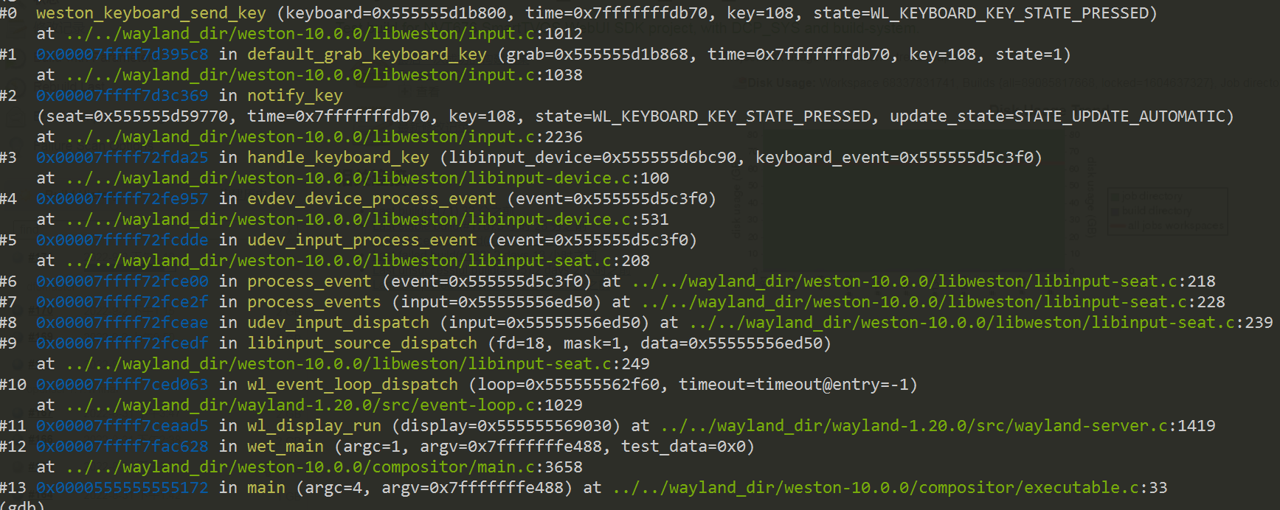
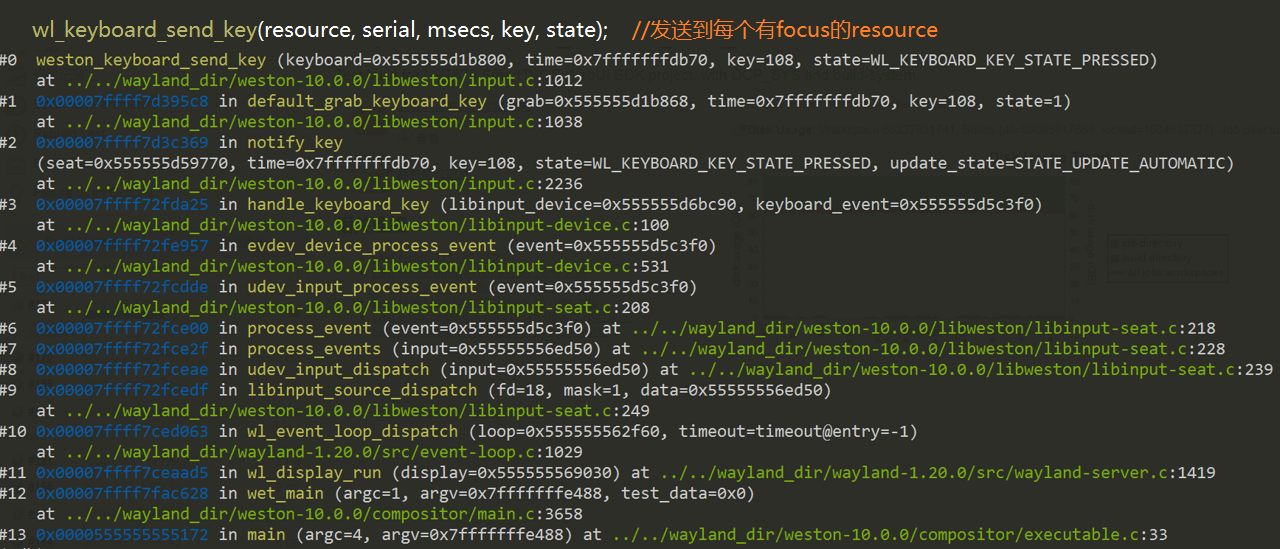
update opengl

Changed region(s): [[0.0, 0.0, 1.0, 1.0]]

diff --git a/jekyll/2018-05-15-Wayland&Weston.html b/jekyll/2018-05-15-Wayland&Weston.html
@@ -384,6 +384,8 @@
       <li>./weston –tty=2</li>
       <li>Ctrl+Alt+Backspace –&gt; 退出Weston界面</li>
     </ol>
+
+    <p>如一般用户启动weston，这时要借助weston-launch 来完成。 相关code：libweston/weston-launch.c</p>
   </li>
   <li>run weston-client test
     <ol>
@@ -820,6 +822,8 @@ weston-10.0.0./compositor/executable.c
 
 <p><img src="/blog/assets/wayland/layer_view_surface.png" alt="layer_view_surface" /></p>
 
+<p><img src="/blog/assets/wayland/view_list.png" alt="view_list" /></p>
+
 <h2 id="47-create_surface">4.7 create_surface</h2>
 
 <p><img src="/blog/assets/wayland/client_server_create_object.png" alt="client_server_create_object" /></p>
@@ -867,7 +871,9 @@ weston-10.0.0./compositor/executable.c
 
 <h2 id="416-libinput">4.16 libinput</h2>
 
-<p><img src="/blog/assets/wayland/Libinput_for_Wayland_compositors.svg" alt="libinput" /></p>
+<p><img src="/blog/assets/wayland/Libinput_for_Wayland_compositors.svg" alt="libinput" width="400px" height="480px" /></p>
+
+<p>source code：<a href="https://gitlab.freedesktop.org/libinput/libinput">https://gitlab.freedesktop.org/libinput/libinput</a></p>
 
 <p>为了提高输入管理部分的模块性，Weston将对输入设备(键盘，鼠标，触摸屏等)的处理分离到一个单独的库，也就是libinput 中。具体地，它提供了<strong>设备检测</strong>，<strong>设备处理</strong>，<strong>输入事件处理</strong>等基本功能，类似于Android 中的EventHub。此外它还有<strong>pointer acceleration</strong>, <strong>touchpad support</strong> 及<strong>gesture recognition</strong>等功能。</p>
 
@@ -894,7 +900,13 @@ weston-10.0.0./compositor/executable.c
 
 <p>可以看到，对于焦点处理，每个设备有自己的focus,它指向焦点窗口，用于拖拽和输入等。成员focus_resource_list 中包含了焦点窗口所在client中输入设备 proxy对应的 resource 对象。在这个 list 中意味着可以接收到相应的事件。</p>
 
+<p><img src="/blog/assets/wayland/libinput.png" alt="libinput" /></p>
+
 <p><img src="/blog/assets/wayland/wayland_input.svg" alt="wayland_input" /></p>
+
+<p>对于焦点处理，每个设备有自己的 focus，它指向焦点窗口，用于拖拽和输入等。成员focus_resource_list 中包含了焦点窗口所在 client 中输入设备 proxy 对应的 resource 对象。在这个list中的resource就可以接收到相应的事件。 相关函数<span style="background-color: yellow">weston_keyboard_send_key()</span>, 参考 4.18.10 key的处理</p>
+
+<p><img src="/blog/assets/wayland/libinput_seat.png" alt="libinput_seat" /></p>
 
 <p><img src="/blog/assets/wayland/input.png" alt="input" width="170px" height="70px" /></p>
 
@@ -934,6 +946,8 @@ weston-10.0.0./compositor/executable.c
 <p>总之，udev 是一个关键的 Linux 设备管理工具，负责设备事件的处理、设备识别、权限管理和符号链接的创建</p>
 
 <h3 id="4162-grab-key">4.16.2 grab key</h3>
+
+<p>特殊情况下，shell对key的grab</p>
 
 <p><img src="/blog/assets/wayland/grab_key.svg" alt="grab_key" /></p>
 
@@ -1013,6 +1027,13 @@ weston-10.0.0./compositor/executable.c
 <ul>
   <li>wl_signal_add( , ) 添加一个listener到 listerner_list 链表</li>
   <li>wl_signal_emit( , ) 触发一个signal, 从listener_list中调用每个listener notify</li>
+  <li>listerner_list 其实就是一个callback链表
+    <div class="language-c highlighter-rouge"><div class="highlight"><pre class="highlight"><code>  <span class="k">struct</span> <span class="n">wl_listener</span> <span class="p">{</span>
+      <span class="k">struct</span> <span class="n">wl_list</span> <span class="n">link</span><span class="p">;</span>
+      <span class="n">wl_notify_func_t</span> <span class="n">notify</span><span class="p">;</span>
+  <span class="p">};</span>
+</code></pre></div>    </div>
+  </li>
 </ul>
 
 <h3 id="4-123-libwayland-eglsoxxx">4 12.3 libwayland-egl.so.xxx</h3>

diff --git a/jekyll/2020-08-20-OpenGL_misc.html b/jekyll/2020-08-20-OpenGL_misc.html
@@ -204,7 +204,7 @@
                             </a>
                             
                                 
-                                    <ul><li><a href="#glinvalidateframebuffer-vs-glclear" onclick="mobilePageScrollToAnchor(this)" >glInvalidateFramebuffer vs glClear</a></li><li><a href="#gldiscardframebufferext" onclick="mobilePageScrollToAnchor(this)" >glDiscardFramebufferEXT</a></li><li><a href="#texture-obj与rbo的区别" onclick="mobilePageScrollToAnchor(this)" >Texture obj与RBO的区别</a></li></ul>
+                                    <ul><li><a href="#glinvalidateframebuffer-vs-glclear" onclick="mobilePageScrollToAnchor(this)" >glInvalidateFramebuffer vs glClear</a></li><li><a href="#gldiscardframebufferext" onclick="mobilePageScrollToAnchor(this)" >glDiscardFramebufferEXT</a></li><li><a href="#texture-obj与rbo的区别" onclick="mobilePageScrollToAnchor(this)" >Texture obj与RBO的区别</a></li><li><a href="#shader" onclick="mobilePageScrollToAnchor(this)" >shader</a><ul><li><a href="#初始化" onclick="mobilePageScrollToAnchor(this)" >初始化</a></li><li><a href="#变量" onclick="mobilePageScrollToAnchor(this)" >变量</a></li></ul></li></ul>
 
                                 
                             
@@ -317,6 +317,25 @@
 <p>FBO(Frame Buffer Object)即帧缓冲区对象，是一个可添加缓冲区的容器，可以为其添加纹理或渲染缓冲区对象（RBO),它们的区别如下图</p>
 
 <p><img src="/blog/assets/OpenGL/renderbuffer.png" alt="renderbuffer" /></p>
+
+<h1 id="shader">shader</h1>
+
+<h2 id="初始化">初始化</h2>
+<p><img src="/blog/assets/OpenGL/shader.png" alt="shader" /></p>
+
+<h2 id="变量">变量</h2>
+
+<p><strong>uniform变量</strong></p>
+
+<p>uniform变量是外部application程序传递给（vertex和fragment）shader的变量。因此它是application通过函数glUniform**（）函数赋值的。在（vertex和fragment）shader程序内部，uniform变量就像是C语言里面的常量（const ），它不能被shader程序修改。</p>
+
+<p><strong>attribute变量</strong></p>
+
+<p>attribute变量是只能在vertex shader中使用的变量。它不能在fragment shader中声明attribute变量，也不能被fragment shader中使用。一般用attribute变量来表示一些顶点的数据，如：顶点坐标，法线，纹理坐标，顶点颜色等。在application中，一般用函数glBindAttribLocation（）来绑定每个attribute变量的位置，然后用函数glVertexAttribPointer（）为每个attribute变量赋值。</p>
+
+<p><strong>varying变量</strong></p>
+
+<p>varying变量是vertex和fragment shader之间做数据传递用的。一般vertex shader修改varying变量的值，然后fragment shader使用该varying变量的值。因此varying变量在vertex和fragment shader二者之间的声明必须是一致的。application不能使用此变量。</p>
 </section>
             </div><div class="search-results">
     <div class="has-results">
